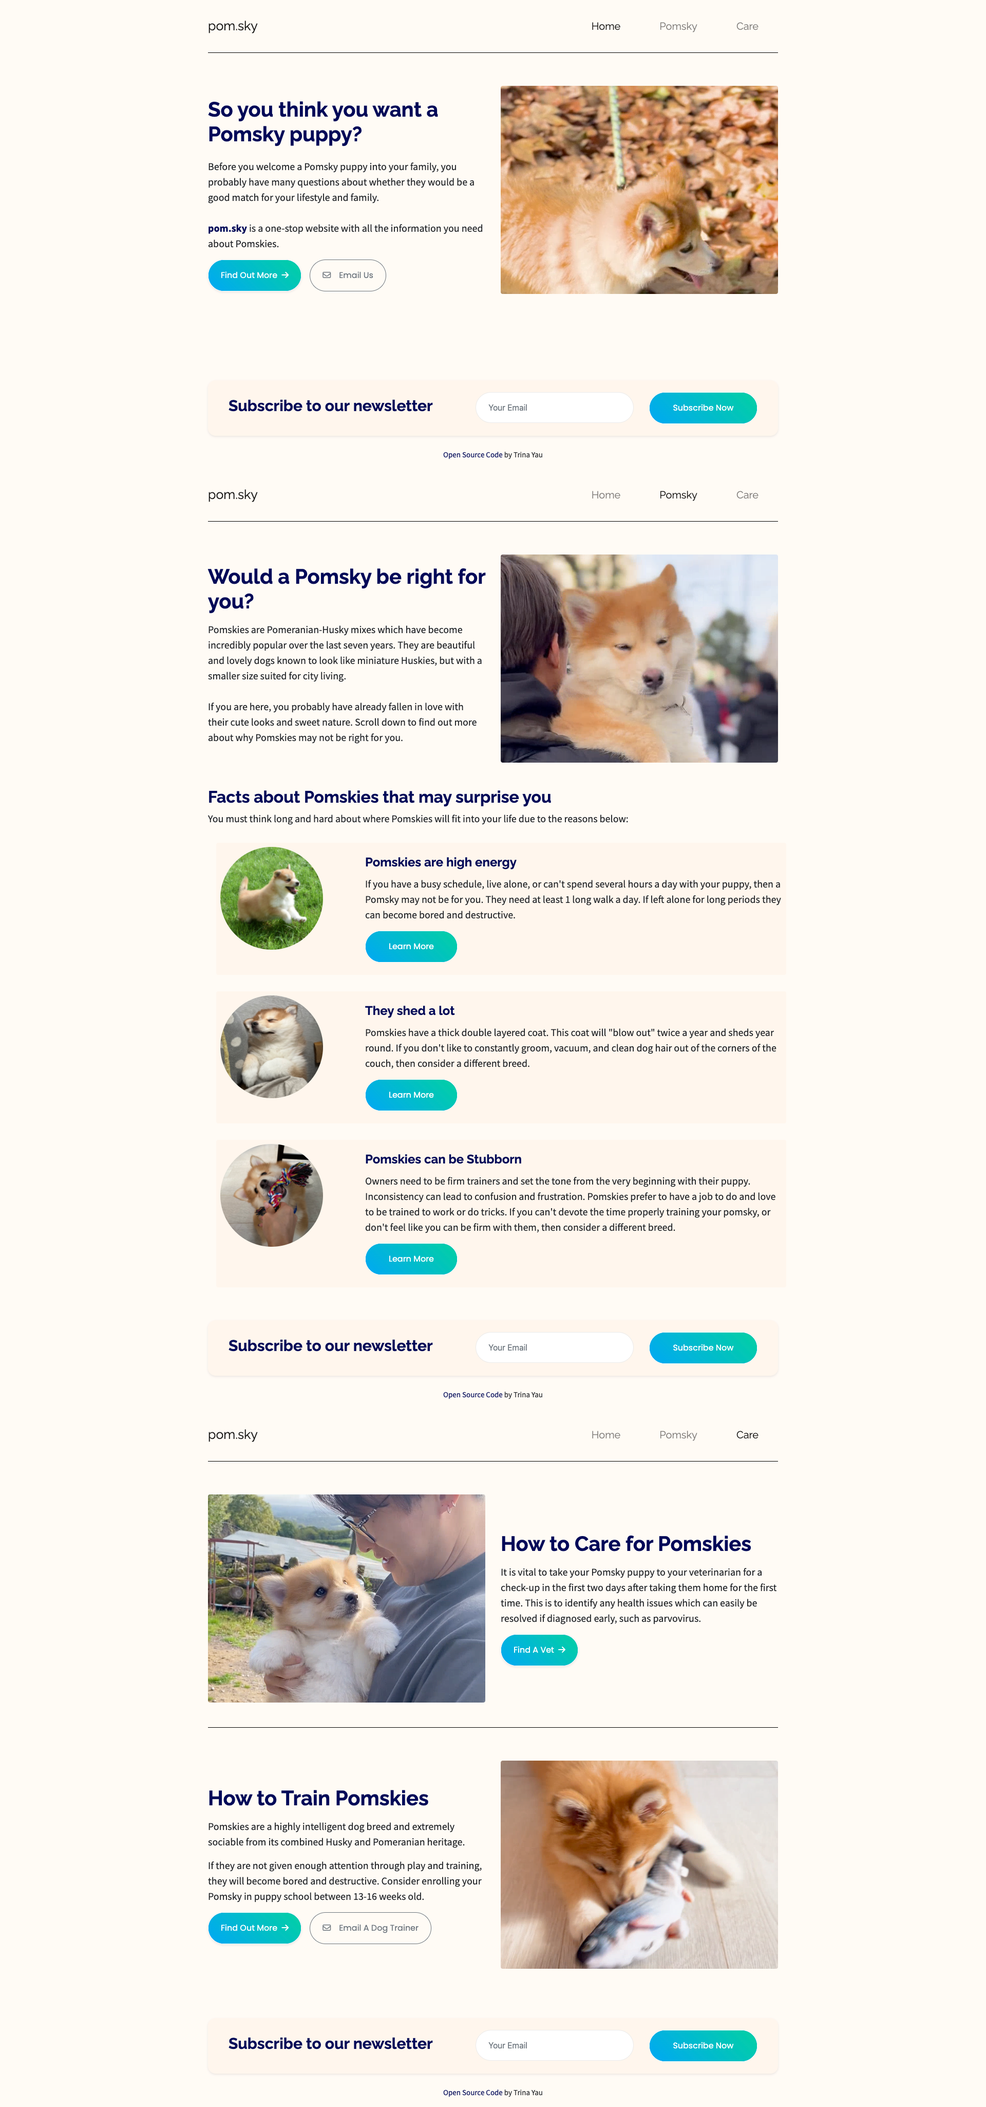
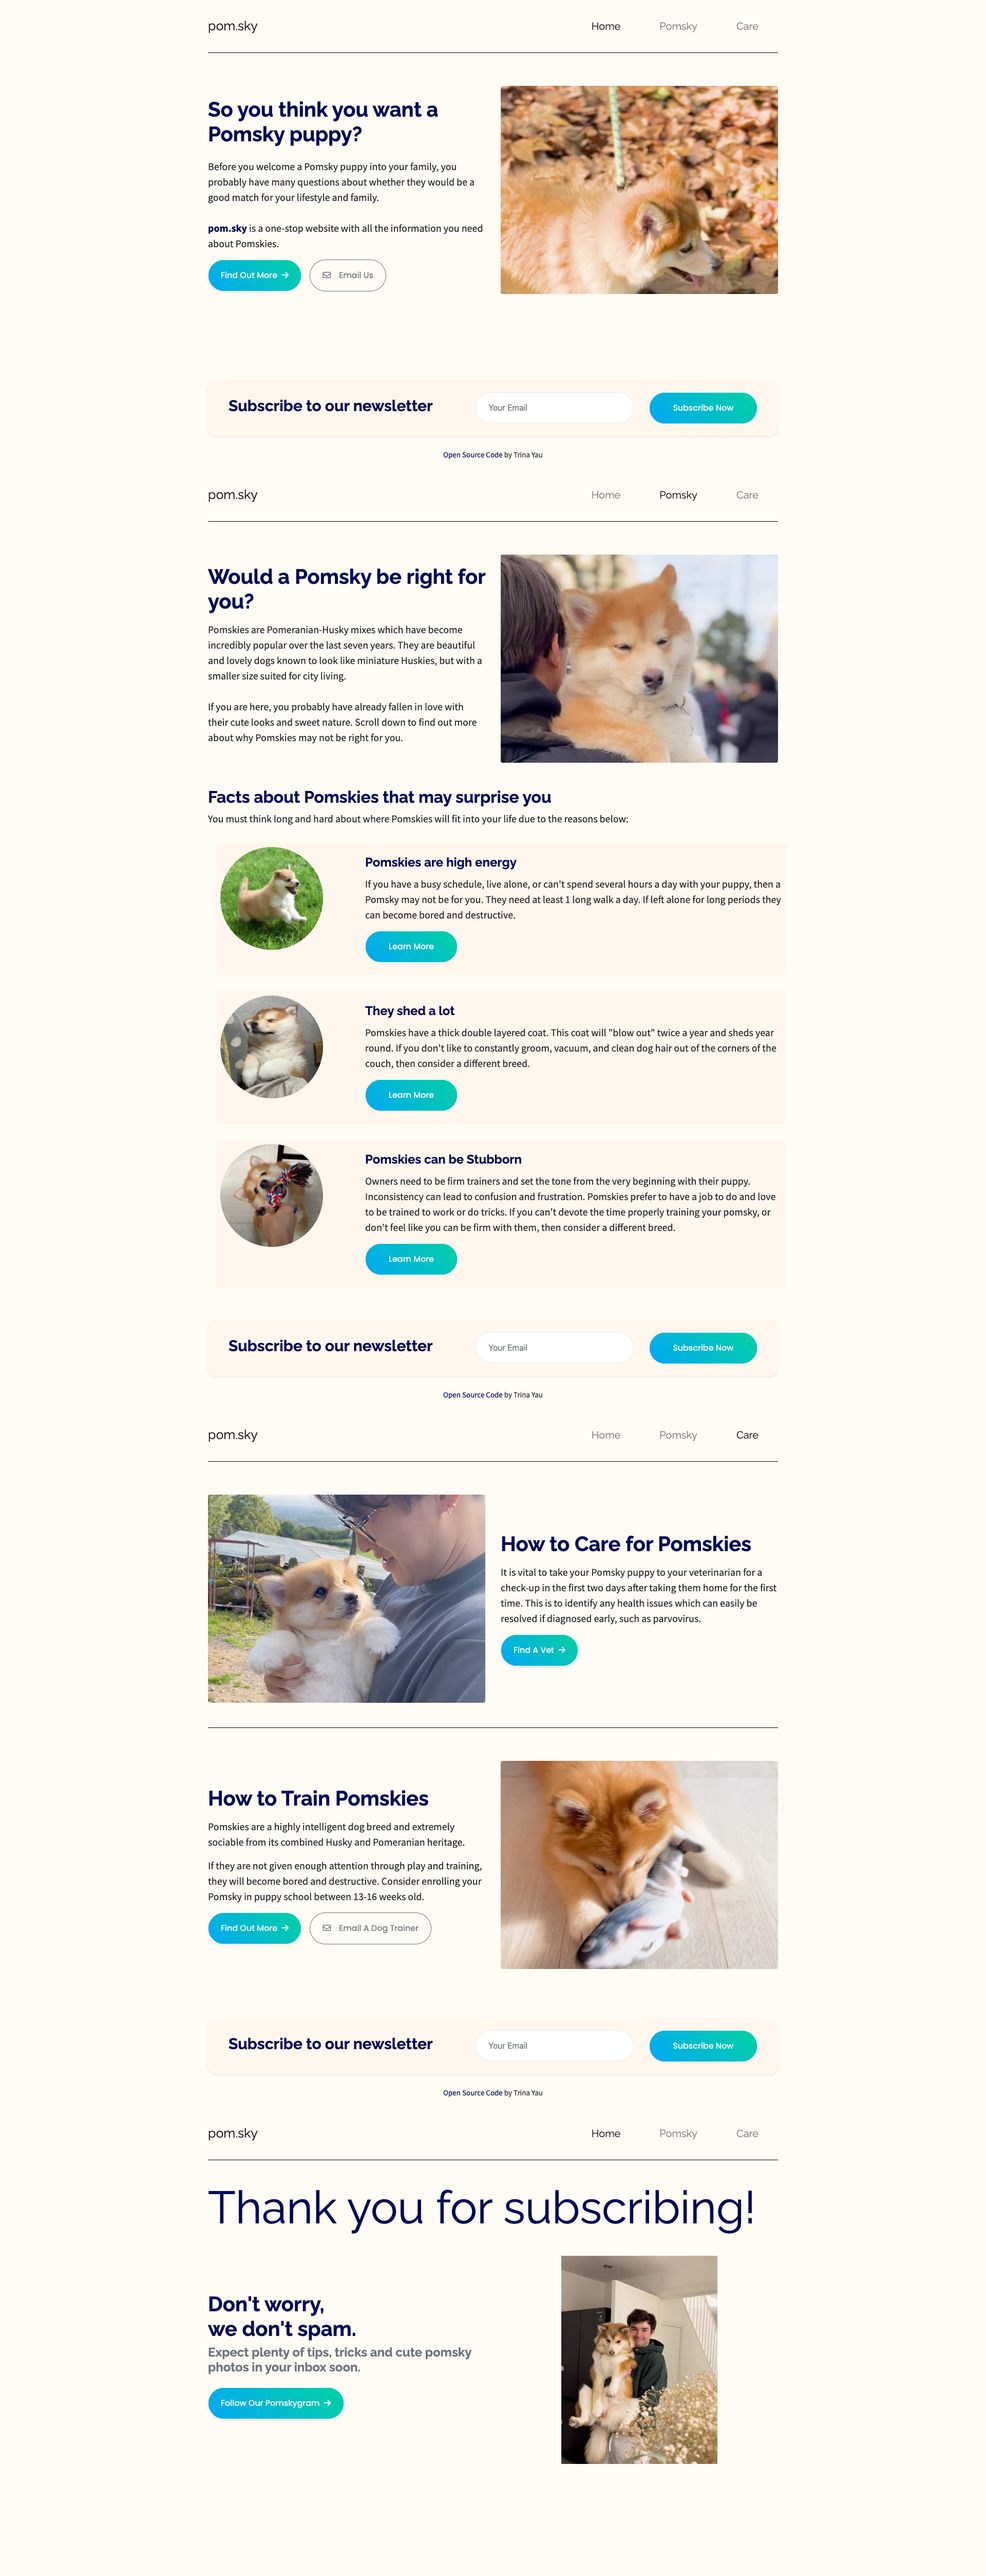
edited thanks page

Changed region(s): [[0.1875, 0.0312, 0.8125, 0.999], [0.2188, 0.0, 0.4688, 0.1561]]

diff --git a/thanks.html b/thanks.html
@@ -13,43 +13,46 @@
     <title>pom.sky - All the information you need about pomskies and pomsky puppies</title>
 </head>
 <body>
-     <!--navbar-->
-     <nav class="navbar navbar-expand-md navbar-light">
-        <div class="container-md d-flex">
-          <a class="navbar-brand" href="index.html">pom.sky</a>
-          <button class="navbar-toggler" type="button" data-toggle="collapse" data-target="#collapsibleNavbar">
-            <span class="navbar-toggler-icon"></span>
-          </button>
-          <div class="collapse navbar-collapse justify-content-end" id="collapsibleNavbar">
-            <ul class="navbar-nav">
-              <li class="nav-item">
-                <a class="nav-link active" href="index.html">Home</a>
-              </li>
-              <li class="nav-item">
-                <a class="nav-link" href="about.html">Pomsky</a>
-              </li>
-              <li class="nav-item">
-                <a class="nav-link" href="care.html">Care</a>
-              </li>
-            </ul>
-          </div>  
-        </div>
-       
-      </nav>
-    <!--/.nav bar-->
+       <!--navbar-->
+  <nav class="navbar navbar-expand-md navbar-light">
+    <div class="container-md d-flex">
+      <a class="navbar-brand" href="index.html">pom.sky</a>
+      <button class="navbar-toggler" type="button" data-toggle="collapse" data-target="#collapsibleNavbar">
+        <span class="navbar-toggler-icon"></span>
+      </button>
+      <div class="collapse navbar-collapse justify-content-end" id="collapsibleNavbar">
+        <ul class="navbar-nav">
+          <li class="nav-item">
+            <a class="nav-link active" href="index.html">Home</a>
+          </li>
+          <li class="nav-item">
+            <a class="nav-link" href="about.html">Pomsky</a>
+          </li>
+          <li class="nav-item">
+            <a class="nav-link" href="care.html">Care</a>
+          </li>
+        </ul>
+      </div>  
+    </div>
+   
+  </nav>
+<!--/.nav bar-->
+<header>
+  <section>
     <div class="container hero">
         <hr class="mt-0">
-    <h1 class="m-5">Thank you for subscribing!</h1>
-    <div class="row m-5">
-        <div class="col-sm-6">
-          <div class="text pt-5">
-            <h2>Don't worry, we don't spam. </h2>
-            <h2>Expect plenty of tips, tricks and cute pomsky photos in your inbox soon.</h2>
+    <h1 class="py-4 display-2">Thank you for subscribing!</h1>
+    <div class="row py-2">
+        <div class="col-sm-6 my-auto">
+          <div class="text">
+            <h1>Don't worry, </br>we don't spam. </h1>
+            <h4 class="text-muted mt-">Expect plenty of tips, tricks and cute pomsky photos in your inbox soon.</h4>
           </div>
+          <a href="https://www.instagram.com/miya.pomsky/" class="btn btn-primary btn-lg px-4 me-md-2 my-3 shadow-sm">Follow Our Pomskygram<i class="fa-solid fa-arrow-right ml-2"></i></a>
         </div>
         <div class="col-sm-6">
-            <div class="embed-responsive-item embed-responsive-3by4 float-left">
-                <video muted autoplay loop playsInline class="embed-responsive-item rounded " height="350px">
+            <div class="embed-responsive embed-responsive-4by3 float-left">
+                <video muted autoplay loop playsInline class=" embed-responsive-item" >
                     <source src="images/dance.mp4" type="video/mp4" >
                     Your browser doesn't support mp4 videos, please use the most updated browser.
                 </video>
@@ -57,5 +60,7 @@
         </div>
     </div>
     </div>
+    </section>
+    </header>
     </body>
     </html>

diff --git a/style.css b/style.css
@@ -146,6 +146,8 @@ h3,
 }
 /* End of subscription box styling */
 
+/* Start of credit styling */
+
 .credit p {
     font-size: 15px;
     
@@ -157,3 +159,5 @@ h3,
 .credit a:hover {
     color:#00a8f4;
 }
+
+/* End of credit styling */
